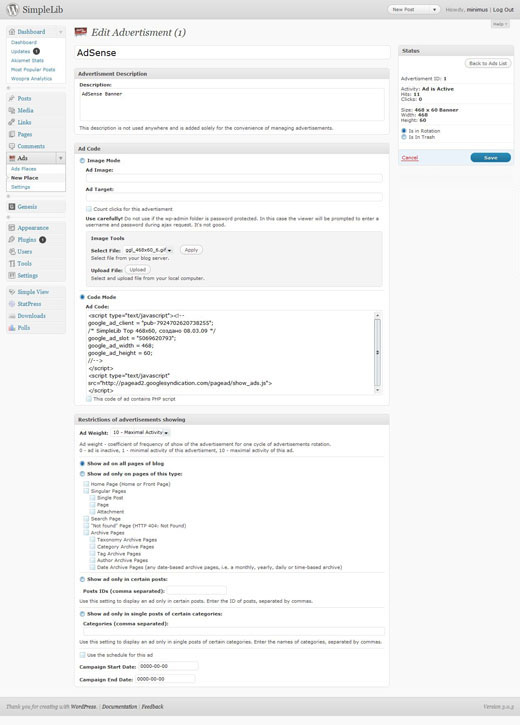
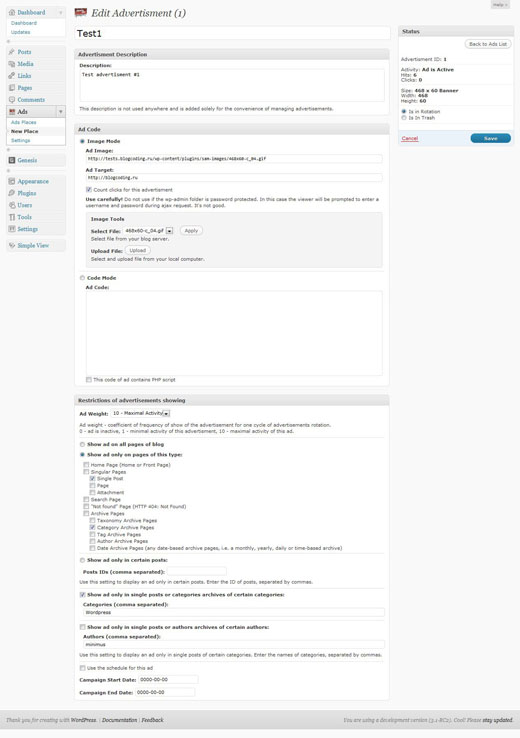
Updating to version 0.2.6
git-svn-id: https://plugins.svn.wordpress.org/simple-ads-manager/trunk@335199 b8457f37-d9ea-0310-8a92-e5e31aec5664

diff --git a/js/sam-admin-edit.js b/js/sam-admin-edit.js
@@ -63,6 +63,7 @@
       });
       
       var availableCats = options.cats;
+      var availableAuthors = options.authors;
       
       function split( val ) {
         return val.split( /,\s*/ );
@@ -77,6 +78,25 @@
         source: function( request, response ) {
           response( $.ui.autocomplete.filter(
             availableCats, extractLast( request.term ) ) );
+        },
+        focus: function() {
+          return false;
+        },
+        select: function( event, ui ) {
+          var terms = split( this.value );
+          terms.pop();
+          terms.push( ui.item.value );
+          terms.push( "" );
+          this.value = terms.join( "," );
+          return false;
+        }
+      });
+      
+      $( "#view_authors" ).autocomplete({
+        minLength: 0,
+        source: function( request, response ) {
+          response( $.ui.autocomplete.filter(
+            availableAuthors, extractLast( request.term ) ) );
         },
         focus: function() {
           return false;

diff --git a/sam-admin-class.php b/sam-admin-class.php
@@ -334,6 +334,8 @@ if ( !class_exists( 'SimpleAdsManagerAdmin' && class_exists('SimpleAdsManager') 
       global $wpdb;
       $tTable = $wpdb->prefix . "terms";
       $ttTable = $wpdb->prefix . "term_taxonomy";
+      $uTable = $wpdb->prefix . "users";
+      $umTable = $wpdb->prefix . "usermeta";
       
       $sql = "SELECT
                 {$tTable}.name
@@ -349,6 +351,22 @@ if ( !class_exists( 'SimpleAdsManagerAdmin' && class_exists('SimpleAdsManager') 
       
       foreach($cats as $value) array_push($terms, $value['name']);
       
+      $sql = "SELECT
+                {$uTable}.user_nicename,
+                {$uTable}.display_name
+              FROM
+                {$uTable}
+              INNER JOIN {$umTable}
+                ON {$uTable}.ID = {$umTable}.user_id
+              WHERE
+                {$umTable}.meta_key = 'wp_user_level' AND
+                {$umTable}.meta_value > 1";
+                
+      $auth = $wpdb->get_results($sql, ARRAY_A);
+      $authors = array();
+      
+      foreach($auth as $value) array_push($authors, $value['display_name']);
+      
       $output = array(
         'uploading' => __('Uploading', SAM_DOMAIN).' ...',
         'uploaded' => __('Uploaded.', SAM_DOMAIN),
@@ -356,7 +374,8 @@ if ( !class_exists( 'SimpleAdsManagerAdmin' && class_exists('SimpleAdsManager') 
         'file' => __('File', SAM_DOMAIN),
         'path' => SAM_AD_IMG,
         'url' => SAM_AD_URL,
-        'cats' => $terms
+        'cats' => $terms,
+        'authors' => $authors
       );
       
       header("Content-type: application/json; charset=UTF-8"); 
@@ -1138,14 +1157,17 @@ if ( !class_exists( 'SimpleAdsManagerAdmin' && class_exists('SimpleAdsManager') 
               'view_type' => $_POST['view_type'],
               'view_pages' => $viewPages,
               'view_id' => $_POST['view_id'],
+              'ad_cats' => $_POST['ad_cats'],
               'view_cats' => $this->removeTrailingComma( $_POST['view_cats'] ),
+              'ad_authors' => $_POST['ad_authors'],
+              'view_authors' => $this->removeTrailingComma( $_POST['view_authors'] ),
               'ad_start_date' => $_POST['ad_start_date'],
               'ad_end_date' => $_POST['ad_end_date'],              
               'ad_schedule' => $_POST['ad_schedule'],
               'ad_weight' => $_POST['ad_weight'],
               'trash' => ($_POST['trash'] === 'true')
             );
-            $formatRow = array( '%d', '%s', '%s', '%d', '%d', '%s', '%s', '%s', '%d', '%d', '%d', '%s', '%s', '%s', '%s', '%d', '%d', '%d', '%d', '%d', '%s', '%d', '%d');
+            $formatRow = array( '%d', '%s', '%s', '%d', '%d', '%s', '%s', '%s', '%d', '%d', '%d', '%s', '%d', '%s', '%d', '%s', '%s', '%s', '%d', '%d', '%d');
             if($itemId === __('Undefined', SAM_DOMAIN)) {
               $wpdb->insert($aTable, $updateRow);
               $item = $wpdb->insert_id;
@@ -1179,7 +1201,10 @@ if ( !class_exists( 'SimpleAdsManagerAdmin' && class_exists('SimpleAdsManager') 
                       view_type, 
                       (view_pages+0) AS view_pages, 
                       view_id,
-                      view_cats, 
+                      ad_cats,
+                      view_cats,
+                      ad_authors,
+                      view_authors, 
                       ad_start_date, 
                       ad_end_date, 
                       ad_schedule, 
@@ -1209,7 +1234,10 @@ if ( !class_exists( 'SimpleAdsManagerAdmin' && class_exists('SimpleAdsManager') 
               'view_type' => 1,
               'view_pages' => 0,
               'view_id' => '',
+              'ad_cats' => 0,
               'view_cats' => '',
+              'ad_authors' => 0,
+              'view_authors' => '',
               'ad_start_date' => '',
               'ad_end_date' => '',              
               'ad_schedule' => 0,
@@ -1457,12 +1485,22 @@ if ( !class_exists( 'SimpleAdsManagerAdmin' && class_exists('SimpleAdsManager') 
                 </p>
                 <div class='clear-line'></div>
                 <p>
-                  <input type='radio' name='view_type' id='view_type_3' value='3' <?php checked(3, $row['view_type']); ?>>
-                  <label for='view_type_2'><strong><?php echo __('Show ad only in single posts of certain categories', SAM_DOMAIN).':'; ?></strong></label>
+                  <input type='checkbox' name='ad_cats' id='ad_cats' value='1' <?php checked(1, $row['ad_cats']); ?>>
+                  <label for='ad_cats'><strong><?php echo __('Show ad only in single posts or categories archives of certain categories', SAM_DOMAIN).':'; ?></strong></label>
                 </p>
                 <div class='radio-content'>
                   <label for='view_cats'><strong><?php echo __('Categories (comma separated)', SAM_DOMAIN).':'; ?></strong></label>
                   <input type='text' name='view_cats' id='view_cats' autocomplete="off" value='<?php echo $row['view_cats']; ?>' style="width:100%">                  
+                </div>
+                <p>
+                <div class='clear-line'></div>
+                <p>
+                  <input type='checkbox' name='ad_authors' id='ad_authors' value='1' <?php checked(1, $row['ad_authors']); ?>>
+                  <label for='ad_authors'><strong><?php echo __('Show ad only in single posts or authors archives of certain authors', SAM_DOMAIN).':'; ?></strong></label>
+                </p>
+                <div class='radio-content'>
+                  <label for='view_authors'><strong><?php echo __('Authors (comma separated)', SAM_DOMAIN).':'; ?></strong></label>
+                  <input type='text' name='view_authors' id='view_authors' autocomplete="off" value='<?php echo $row['view_authors']; ?>' style="width:100%">                  
                 </div>
                 <p>
                   <?php _e('Use this setting to display an ad only in single posts of certain categories. Enter the names of categories, separated by commas.', SAM_DOMAIN); ?>

diff --git a/sam-class.php b/sam-class.php
@@ -17,8 +17,8 @@ if ( !class_exists( 'SimpleAdsManager' ) ) {
 		);
 		
 		function __construct() {
-      define('SAM_VERSION', '0.1.3');
-			define('SAM_DB_VERSION', '0.1');
+      define('SAM_VERSION', '0.2.6');
+			define('SAM_DB_VERSION', '0.2');
       define('SAM_PATH', dirname( __FILE__ ));
       define('SAM_URL', WP_PLUGIN_URL . '/' . str_replace( basename( __FILE__), "", plugin_basename( __FILE__ ) ));
       define('SAM_IMG_URL', SAM_URL.'images/');
@@ -68,7 +68,8 @@ if ( !class_exists( 'SimpleAdsManager' ) ) {
 			
 			require_once(ABSPATH . 'wp-admin/includes/upgrade.php');
 			
-			if( get_option( 'sam_db_version', '' ) != SAM_DB_VERSION ) {
+			$dbVersion = get_option( 'sam_db_version', '' );
+      if( $dbVersion != SAM_DB_VERSION ) {
 				if($wpdb->get_var("SHOW TABLES LIKE '$pTable'") != $pTable) {
 					$pSql = "CREATE TABLE ".$pTable."(
 									id INT(11) NOT NULL AUTO_INCREMENT,
@@ -109,7 +110,10 @@ if ( !class_exists( 'SimpleAdsManager' ) ) {
 								  view_type INT(11) DEFAULT 1,
 									view_pages SET('isHome', 'isSingular', 'isSingle', 'isPage', 'isAttachment', 'isSearch', 'is404', 'isArchive', 'isTax', 'isCategory', 'isTag', 'isAuthor', 'isDate') DEFAULT NULL,
                   view_id VARCHAR(255) DEFAULT NULL,
+                  ad_cats TINYINT(1) DEFAULT 0,
                   view_cats VARCHAR(255) DEFAULT NULL,
+                  ad_authors TINYINT(1) DEFAULT 0,
+                  view_authors VARCHAR(255) DEFAULT NULL,
                   ad_schedule TINYINT(1) DEFAULT 0,
                   ad_start_date DATE DEFAULT NULL,
                   ad_end_date DATE DEFAULT NULL,
@@ -122,10 +126,18 @@ if ( !class_exists( 'SimpleAdsManager' ) ) {
 								)";
 					dbDelta($aSql);
 				}
-				else {
-					//$aSql = 'ALTER TABLE '.$aTable.'
-					//					ADD COLUMN ad_source TINYINT(1) DEFAULT 0;';
-					//$wpdb->query($aSql);
+				elseif($dbVersion == '0.1') {
+					$aSql = 'ALTER TABLE '.$aTable.'
+					           ADD COLUMN ad_cats TINYINT(1) DEFAULT 0,
+                     ADD COLUMN ad_authors TINYINT(1) DEFAULT 0,
+                     ADD COLUMN view_authors VARCHAR(255) DEFAULT NULL;';
+					$wpdb->query($aSql);
+          $aSqlU = "UPDATE LOW_PRIORITY {$aTable}
+                      SET {$aTable}.ad_cats = 1, 
+                          {$aTable}.view_type = 0,
+                          {$aTable}.view_pages = 4
+                      WHERE {$aTable}.view_type = 3;";
+          $wpdb->query($aSqlU);
 				}
 				update_option('sam_db_version', SAM_DB_VERSION);
       }
@@ -183,6 +195,7 @@ if ( !class_exists( 'SimpleAdsManager' ) ) {
       $cats = array();
       $wcc = '';
       $wci = '';
+      $wca = '';
       if(is_home() || is_front_page()) $viewPages += SAM_IS_HOME;
       if(is_singular()) {
         $viewPages += SAM_IS_SINGULAR;
@@ -192,8 +205,10 @@ if ( !class_exists( 'SimpleAdsManager' ) ) {
           $viewPages += SAM_IS_SINGLE;
           $categories = get_the_category($post->ID);
           foreach($categories as $category) 
-            $wcc .= " OR ({$aTable}.view_type = 3 AND FIND_IN_SET('{$category->cat_name}', {$aTable}.view_cats))";
+            $wcc .= " OR ({$aTable}.ad_cats = 1 AND FIND_IN_SET('{$category->cat_name}', {$aTable}.view_cats))";
           $wci = " OR ({$aTable}.view_type = 2 AND FIND_IN_SET({$post->ID}, {$aTable}.view_id))";
+          $author = get_userdata($post->post_author);
+          $wca = " OR ({$aTable}.ad_authors = 1 AND FIND_IN_SET('{$author->display_name}', {$aTable}.view_authors))";
         }
         if(is_page()) $viewPages += SAM_IS_PAGE;
         if(is_attachment()) $viewPages += SAM_IS_ATTACHMENT;
@@ -203,15 +218,25 @@ if ( !class_exists( 'SimpleAdsManager' ) ) {
       if(is_archive()) {
         $viewPages += SAM_IS_ARCHIVE;
         if(is_tax()) $viewPages += SAM_IS_TAX;
-        if(is_category()) $viewPages += SAM_IS_CATEGORY;
+        if(is_category()) {
+          $viewPages += SAM_IS_CATEGORY;
+          $cat = get_category(get_query_var('cat'), false);
+          $wcc = " OR ({$aTable}.ad_cats = 1 AND FIND_IN_SET('{$cat->cat_name}', {$aTable}.view_cats))";
+        }
         if(is_tag()) $viewPages += SAM_IS_TAG;
-        if(is_author()) $viewPages += SAM_IS_AUTHOR;
+        if(is_author()) {
+          global $wp_query;
+          
+          $viewPages += SAM_IS_AUTHOR;
+          $author = $wp_query->get_queried_object();
+          $wca = " OR ({$aTable}.ad_authors = 1 AND FIND_IN_SET('{$author->display_name}', {$aTable}.view_authors))";
+        }
         if(is_date()) $viewPages += SAM_IS_DATE;
       }
       
       $whereClause  = "({$aTable}.view_type = 1)";
       $whereClause .= " OR ({$aTable}.view_type = 0 AND ({$aTable}.view_pages+0 & {$viewPages}))";
-      $whereClause .= $wcc.$wci;
+      $whereClause .= $wcc.$wci.$wca;
       $whereClauseT = " AND (({$aTable}.ad_schedule IS FALSE) OR ({$aTable}.ad_schedule IS TRUE AND (CURDATE() BETWEEN {$aTable}.ad_start_date AND {$aTable}.ad_end_date)))";
       
       $whereClauseW = " AND (({$aTable}.ad_weight > 0) AND (({$aTable}.ad_weight_hits*10/({$aTable}.ad_weight*{$cycle})) < 1))";

diff --git a/sam-widget-class.php b/sam-widget-class.php
@@ -28,6 +28,7 @@ if(!class_exists('simple_ads_manager_widget') && class_exists('WP_Widget')) {
       $cats = array();
       $wcc = '';
       $wci = '';
+      $wca = '';
       if(is_home() || is_front_page()) $viewPages += SAM_IS_HOME;
       if(is_singular()) {
         $viewPages += SAM_IS_SINGULAR;
@@ -37,8 +38,10 @@ if(!class_exists('simple_ads_manager_widget') && class_exists('WP_Widget')) {
           $viewPages += SAM_IS_SINGLE;
           $categories = get_the_category($post->ID);
           foreach($categories as $category) 
-            $wcc .= " OR ({$aTable}.view_type = 3 AND FIND_IN_SET('{$category->cat_name}', {$aTable}.view_cats))";
+            $wcc .= " OR ({$aTable}.ad_cats = 1 AND FIND_IN_SET('{$category->cat_name}', {$aTable}.view_cats))";
           $wci = " OR ({$aTable}.view_type = 2 AND FIND_IN_SET({$post->ID}, {$aTable}.view_id))";
+          $author = get_userdata($post->post_author);
+          $wca = " OR ({$aTable}.ad_authors = 1 AND FIND_IN_SET('{$author->display_name}', {$aTable}.view_authors))";
         }
         if(is_page()) $viewPages += SAM_IS_PAGE;
         if(is_attachment()) $viewPages += SAM_IS_ATTACHMENT;
@@ -48,15 +51,25 @@ if(!class_exists('simple_ads_manager_widget') && class_exists('WP_Widget')) {
       if(is_archive()) {
         $viewPages += SAM_IS_ARCHIVE;
         if(is_tax()) $viewPages += SAM_IS_TAX;
-        if(is_category()) $viewPages += SAM_IS_CATEGORY;
+        if(is_category()) {
+          $viewPages += SAM_IS_CATEGORY;
+          $cat = get_category(get_query_var('cat'), false);
+          $wcc = " OR ({$aTable}.ad_cats = 1 AND FIND_IN_SET('{$cat->cat_name}', {$aTable}.view_cats))";
+        }
         if(is_tag()) $viewPages += SAM_IS_TAG;
-        if(is_author()) $viewPages += SAM_IS_AUTHOR;
+        if(is_author()) {
+          global $wp_query;
+          
+          $viewPages += SAM_IS_AUTHOR;
+          $author = $wp_query->get_queried_object();
+          $wca = " OR ({$aTable}.ad_authors = 1 AND FIND_IN_SET('{$author->display_name}', {$aTable}.view_authors))";
+        }
         if(is_date()) $viewPages += SAM_IS_DATE;
       }
       
       $whereClause  = "({$aTable}.view_type = 1)";
       $whereClause .= " OR ({$aTable}.view_type = 0 AND ({$aTable}.view_pages+0 & {$viewPages}))";
-      $whereClause .= $wcc.$wci;
+      $whereClause .= $wcc.$wci.$wca;
       $whereClauseT = " AND (({$aTable}.ad_schedule IS FALSE) OR ({$aTable}.ad_schedule IS TRUE AND (CURDATE() BETWEEN {$aTable}.ad_start_date AND {$aTable}.ad_end_date)))";
       
       $whereClauseW = " AND (({$aTable}.ad_weight > 0) AND (({$aTable}.ad_weight_hits*10/({$aTable}.ad_weight*{$cycle})) < 1))";

diff --git a/simple-ads-manager.php b/simple-ads-manager.php
@@ -3,7 +3,7 @@
 Plugin Name: Simple Ads Manager
 Plugin URI: http://www.simplelib.com/?p=480
 Description: "Simple Ads Manager" is easy to use plugin providing a flexible logic of displaying advertisements. Visit <a href="http://www.simplelib.com/">SimpleLib blog</a> for more details.
-Version: 0.1.3
+Version: 0.2.6
 Author: minimus
 Author URI: http://blogcoding.ru
 */
